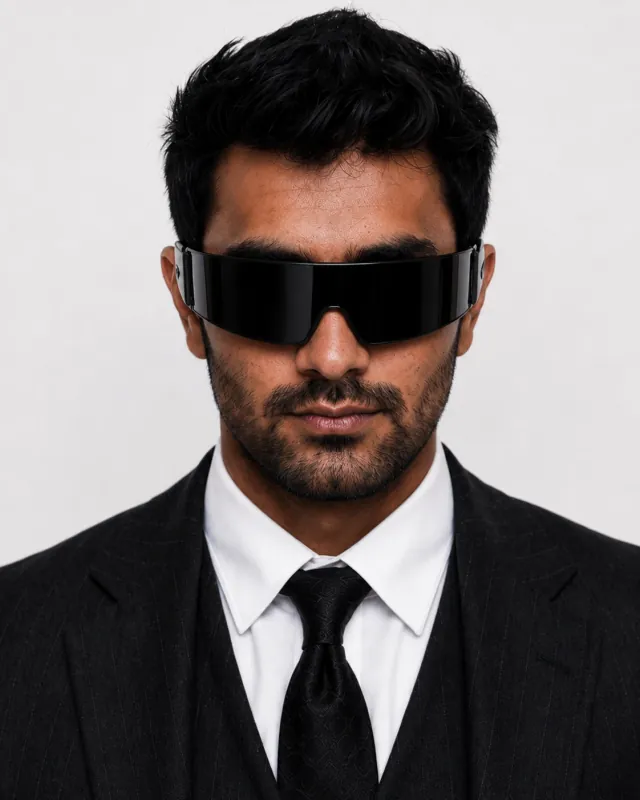
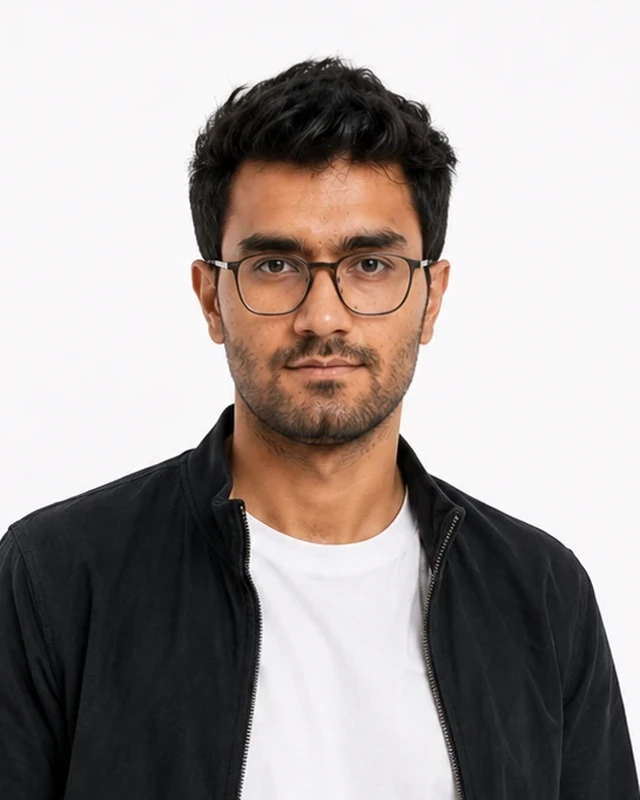
About: Asad's real studio portrait, shown plain
The lens projection (mask + band + icon marquee) is now OPTIONAL per
person in VisorCard — omit mask/band/icons and the card renders just the
photo. Asad switches to the new studio shot, cropped to the card's
existing framing (head ~46% of frame, headroom above the hair, 4:5).
Andrej and the Anonymous card keep the marquee treatment.

diff --git a/src/components/VisorCard.tsx b/src/components/VisorCard.tsx
@@ -16,15 +16,18 @@ type Band = { left: string; top: string; width: string; height: string; tilt: nu
 
 type PersonConfig = {
   photo: string;
-  mask: string;
   /* the photo's exact aspect ratio — the parallax wrap uses it so the matte's
      percentage coordinates map 1:1 onto the image (no object-fit cropping) */
   aspect: string;
   alt: string;
   name: string;
   sub: string;
-  band: Band;
-  icons: string[][];
+  /* the lens projection is OPTIONAL: omit mask/band/icons and the card is
+     simply the portrait (the real team photos run plain — the marquee-through-
+     the-lens treatment stays on the Anonymous card) */
+  mask?: string;
+  band?: Band;
+  icons?: string[][];
 };
 
 // shared pixel bitmaps ('#' = filled cell)
@@ -56,26 +59,13 @@ const CONFIGS: Record<'andrej' | 'asad' | 'anon', PersonConfig> = {
       STAR,
     ],
   },
-  // Dev lead: G, code brackets, terminal prompt, eye, bolt, heart, star
+  // Dev lead — the real studio portrait, shown plain (no lens projection)
   asad: {
     photo: '/king/asad-visor.webp',
-    mask: '/king/asad-visor-mask.png',
-    aspect: '1122 / 1402',
+    aspect: '640 / 800',
     alt: 'Asad — Dev Lead',
     name: 'ASAD',
     sub: 'DEV LEAD',
-    // lens band measured from the photo: x 28.3%→74.9%, centerline y ~37.4%,
-    // essentially level (−0.8°)
-    band: { left: '28%', top: '32.1%', width: '47.5%', height: '10.5%', tilt: -0.8 },
-    icons: [
-      G,
-      ['..#.#..', '.#...#.', '#.....#', '.#...#.', '..#.#..'], // <> brackets
-      ['#.....', '.#....', '..#...', '.#....', '#..###'],      // >_ terminal
-      EYE,
-      BOLT,
-      HEART,
-      STAR,
-    ],
   },
   // The Anonymous — the hero smiley ball itself in a suit. The marquee runs
   // straight through BOTH star-shaped eye recesses (parametric star mattes
@@ -229,32 +219,35 @@ export default function VisorCard({
               {/* eslint-disable-next-line @next/next/no-img-element */}
               <img decoding="async" className={styles.portrait} src={cfg.photo} alt={cfg.alt} />
 
-              {/* the projection, clipped by the lens matte */}
-              <div
-                className={styles.visor}
-                aria-hidden="true"
-                style={{
-                  WebkitMaskImage: `url(${cfg.mask})`,
-                  maskImage: `url(${cfg.mask})`,
-                }}
-              >
+              {/* the projection, clipped by the lens matte — only for cards
+                  that define one */}
+              {cfg.mask && cfg.band && cfg.icons && (
                 <div
-                  className={styles.visorBand}
+                  className={styles.visor}
+                  aria-hidden="true"
                   style={{
-                    left: cfg.band.left,
-                    top: cfg.band.top,
-                    width: cfg.band.width,
-                    height: cfg.band.height,
-                    transform: `rotate(${cfg.band.tilt}deg)`,
+                    WebkitMaskImage: `url(${cfg.mask})`,
+                    maskImage: `url(${cfg.mask})`,
                   }}
                 >
-                  <div className={styles.visorStrip}>
-                    <IconSet icons={cfg.icons} />
-                    <IconSet icons={cfg.icons} />
+                  <div
+                    className={styles.visorBand}
+                    style={{
+                      left: cfg.band.left,
+                      top: cfg.band.top,
+                      width: cfg.band.width,
+                      height: cfg.band.height,
+                      transform: `rotate(${cfg.band.tilt}deg)`,
+                    }}
+                  >
+                    <div className={styles.visorStrip}>
+                      <IconSet icons={cfg.icons} />
+                      <IconSet icons={cfg.icons} />
+                    </div>
                   </div>
+                  <div className={styles.visorSheen} />
                 </div>
-                <div className={styles.visorSheen} />
-              </div>
+              )}
             </div>
 
             <div className={styles.shine} />
